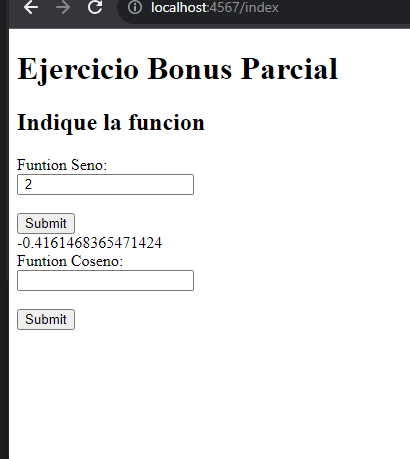
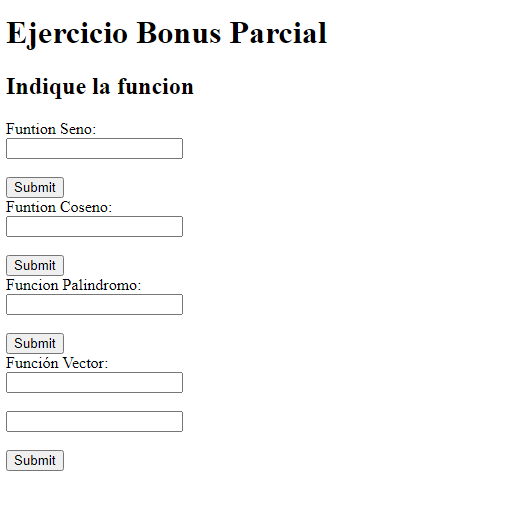
Readme y codigo terminado

Changed region(s): [[0.0, 0.0, 1.0, 1.0]]

diff --git a/src/main/java/edu/escuelaing/arep/app/SparkWebServer.java b/src/main/java/edu/escuelaing/arep/app/SparkWebServer.java
@@ -12,28 +12,34 @@ public class SparkWebServer {
         port(getPort());
         get("hello", (req, res) -> "Hello Docker!");
         System.out.println("Inicio");
-        get("index", (req, res) -> getIndexResponseSen() );
+        get("index", (req, res) -> getIndexResponseSen());
         get("/sen", (req, res) -> Math.sin((Double.parseDouble(req.queryParams("value")))));
         get("/cos", (req, res) -> Math.cos((Double.parseDouble(req.queryParams("value")))));
         get("/pal", (req, res) -> {
             String str = req.queryParams("value");
             String rstr = "";
             int strLength = str.length();
-            for (int i = (strLength - 1); i >=0; --i) {
+            for (int i = (strLength - 1); i >= 0; --i) {
                 rstr = rstr + str.charAt(i);
-              }
-          
-              if (str.toLowerCase().equals(rstr.toLowerCase())) {
+            }
+
+            if (str.toLowerCase().equals(rstr.toLowerCase())) {
                 return " Es palindromo.";
-              }
-              else {
+            } else {
                 return " No es palindromo.";
-              }
+            }
+        });
+        get("/vec", (req, res) -> {
+            double x = Double.parseDouble(req.queryParams("x"));
+            double y = Double.parseDouble(req.queryParams("y"));
+
+            double magnitud = Math.sqrt(x * x + y * y);
+
+            return "La magnitud del vector es: " + magnitud;
 
         });
     }
 
-    
     private static int getPort() {
         if (System.getenv("PORT") != null) {
             return Integer.parseInt(System.getenv("PORT"));
@@ -42,8 +48,7 @@ public class SparkWebServer {
     }
 
     public static String getIndexResponseSen() {
-        String response = 
-                "\r\n"
+        String response = "\r\n"
                 + "<!DOCTYPE html>\n"
                 + "<html\n>"
                 + "    <head\n>"
@@ -56,7 +61,7 @@ public class SparkWebServer {
                 + "        <h2>Indique la funcion</h2>\n"
                 + "        <form action=\"/hello\">\n"
                 + "            <label for=\"name\">Funtion Seno:</label><br>\n"
-                + "            <input type=\"text\" id=\"name\" name=\"name\" value=\" \"><br><br>\n"
+                + "            <input type=\"text\" id=\"name\" name=\"name\" value=\"\"><br><br>\n"
                 + "            <input type=\"button\" value=\"Submit\" onclick=\"loadGetMsg()\">\n"
                 + "        </form>\n"
                 + "        <div id=\"getrespmsg\"></div>\n"
@@ -72,21 +77,59 @@ public class SparkWebServer {
                 + "                xhttp.send();\n"
                 + "            }\n"
                 + "      </script>\n"
-                + "        <form action=\"/hello\">\n"
+                + "        <form action=\"/coseno\">\n"
                 + "            <label for=\"name\">Funtion Coseno:</label><br>\n"
-                + "            <input type=\"text\" id=\"name\" name=\"name\" value=\" \"><br><br>\n"
-                + "            <input type=\"button\" value=\"Submit\" onclick=\"loadGetMsg()\">\n"
+                + "            <input type=\"text\" id=\"nameCos\" name=\"name\" value=\" \"><br><br>\n"
+                + "            <input type=\"button\" value=\"Submit\" onclick=\"loadGetMsgCos()\">\n"
                 + "        </form>\n"
-                + "        <div id=\"getrespmsg\"></div>\n"
+                + "        <div id=\"getrespmsgCos\"></div>\n"
                 + "      <script>\n"
-                + "            function loadGetMsg() {\n"
-                + "                let nameVar = document.getElementById(\"name\").value;\n"
+                + "            function loadGetMsgCos() {\n"
+                + "                let nameVar = document.getElementById(\"nameCos\").value;\n"
                 + "                const xhttp = new XMLHttpRequest();\n"
                 + "                xhttp.onload = function() {\n"
-                + "                    document.getElementById(\"getrespmsg\").innerHTML =\n"
+                + "                    document.getElementById(\"getrespmsgCos\").innerHTML =\n"
                 + "                    this.responseText;\n"
                 + "                } \n"
                 + "                xhttp.open(\"GET\", \"cos?value=\"+nameVar);\n"
+                + "                xhttp.send();\n"
+                + "            }\n"
+                + "      </script>\n"
+                + "        <form action=\"/palindromo\">\n"
+                + "            <label for=\"name\">Funcion Palindromo:</label><br>\n"
+                + "            <input type=\"text\" id=\"namePal\" name=\"name\" value=\" \"><br><br>\n"
+                + "            <input type=\"button\" value=\"Submit\" onclick=\"loadGetMsgPal()\">\n"
+                + "        </form>\n"
+                + "        <div id=\"getrespmsgPal\"></div>\n"
+                + "      <script>\n"
+                + "            function loadGetMsgPal() {\n"
+                + "                let nameVar = document.getElementById(\"namePal\").value;\n"
+                + "                const xhttp = new XMLHttpRequest();\n"
+                + "                xhttp.onload = function() {\n"
+                + "                    document.getElementById(\"getrespmsgPal\").innerHTML =\n"
+                + "                    this.responseText;\n"
+                + "                } \n"
+                + "                xhttp.open(\"GET\", \"pal?value=\"+nameVar);\n"
+                + "                xhttp.send();\n"
+                + "            }\n"
+                + "      </script>\n"
+                + "        <form action=\"/vector\">\n"
+                + "            <label for=\"name\">Función Vector:</label><br>\n"
+                + "            <input type=\"text\" id=\"value1\" name=\"name\" value=\" \"><br><br>\n"
+                + "            <input type=\"text\" id=\"value2\" name=\"name\" value=\" \"><br><br>\n"
+                + "            <input type=\"button\" value=\"Submit\" onclick=\"loadGetMsgVec()\">\n"
+                + "        </form>\n"
+                + "        <div id=\"getrespmsgVec\"></div>\n"
+                + "      <script>\n"
+                + "            function loadGetMsgVec() {\n"
+                + "                let nameVar1 = document.getElementById(\"value1\").value;\n"
+                + "                let nameVar2 = document.getElementById(\"value2\").value;\n"
+                + "                const xhttp = new XMLHttpRequest();\n"
+                + "                xhttp.onload = function() {\n"
+                + "                    document.getElementById(\"getrespmsgVec\").innerHTML =\n"
+                + "                    this.responseText;\n"
+                + "                } \n"
+                + "                xhttp.open(\"GET\", \"vec?x=\"+nameVar1+\"&y=\"+nameVar2);\n"
                 + "                xhttp.send();\n"
                 + "            }\n"
                 + "      </script>\n"
@@ -94,6 +137,5 @@ public class SparkWebServer {
                 + "</html>\n";
         return response;
     }
-
 
 }

diff --git a/ReadMe.md b/ReadMe.md
@@ -1,11 +1,150 @@
+# Bonus Parcial
+
+En este repositorio se encuentra el bonus del parcial de AREP, el cual calcula: Seno, Coseno, Palindromo y la magnitud de un vector real.
+
+## Para empezar
+
+Descargue y copie el repositorio en su maquina local.
+
+### Prerrequisitos
+
+- Java
+- Maven
+
+### Ejecución
+
+Primero, compile el proyecto con el siguiente comando:
+
+```
+mvn clean install
+```
+
+Después, ejecute el siguiente comando para correr el programa:
+
+```
 java -cp "target/classes;target/dependency/*" edu.escuelaing.arep.app.SparkWebServer
+```
+
+Debe ingresar a la siguiente direccion:
+
+```
+http://localhost:4567/index
+```
+
+Estando ahi la pagina se vera asi:
+<br>
 
 ![](./src/images/1.png)
-![](./src/images/2.png)
-![](./src/images/3.png)
-![](./src/images/4.png)
-![](./src/images/5.png)
-![](./src/images/6.png)
 
-link docker 
+
+
+### Funcionamiento y Código
+
+### Función Seno
+
+El siguiente código calcula el seno de un numero ingresado por el usuario.
+<br>
+
+![](./src/images/sen.png)
+<br>
+Esto se ve en pantalla asi:
+<br>
+
+![](./src/images/1.png)
+
+
+Si hacemos el calculo por la url se ve asi:
+<br>
+
+![](./src/images/2.png)
+
+Y desde la aplicación asi:
+<br>
+
+![](./src/images/2.5.png)
+
+### Función Coseno
+El siguiente código calcula el Coseno de un numero ingresado por el usuario.
+<br>
+
+![](./src/images/9.png)
+<br>
+Esto se ve en pantalla asi:
+<br>
+
+![](./src/images/8.png)
+
+
+Si hacemos el calculo por la url se ve asi:
+<br>
+
+![](./src/images/11.png)
+
+Y desde la aplicación asi:
+<br>
+
+![](./src/images/12.png)
+
+### Función Palindromo
+El siguiente valida si una palabra es palindromo o no.
+<br>
+
+![](./src/images/pal.png)
+<br>
+Esto se ve en pantalla asi:
+<br>
+
+![](./src/images/pal1.png)
+
+
+Si hacemos la función desde la la url se ve asi:
+<br>
+
+Cuando es palindromo
+<br>
+![](./src/images/pl1.png)
+
+<br>
+Y cuando no
+
+![](./src/images/pl2.png)
+
+
+Y desde la aplicación asi:
+
+
+Cuando no es Palindromo
+<br>
+
+![](./src/images/rp1.png)
+
+<br>
+Cuando es palindromo
+<br>
+
+![](./src/images/rp2.png)
+
+### Función Vector
+El siguiente código calcula la magnitud de un vector real el cual recibe dos entradas.
+<br>
+
+![](./src/images/vec1.png)
+<br>
+Esto se ve en pantalla asi:
+<br>
+
+![](./src/images/vec2.png)
+
+
+Si hacemos el calculo por la url se ve asi:
+<br>
+
+![](./src/images/vec3.png)
+
+Y desde la aplicación asi:
+<br>
+
+![](./src/images/vec4.png)
+
+link docker
 https://hub.docker.com/r/sebastianrod/bonoparcial
